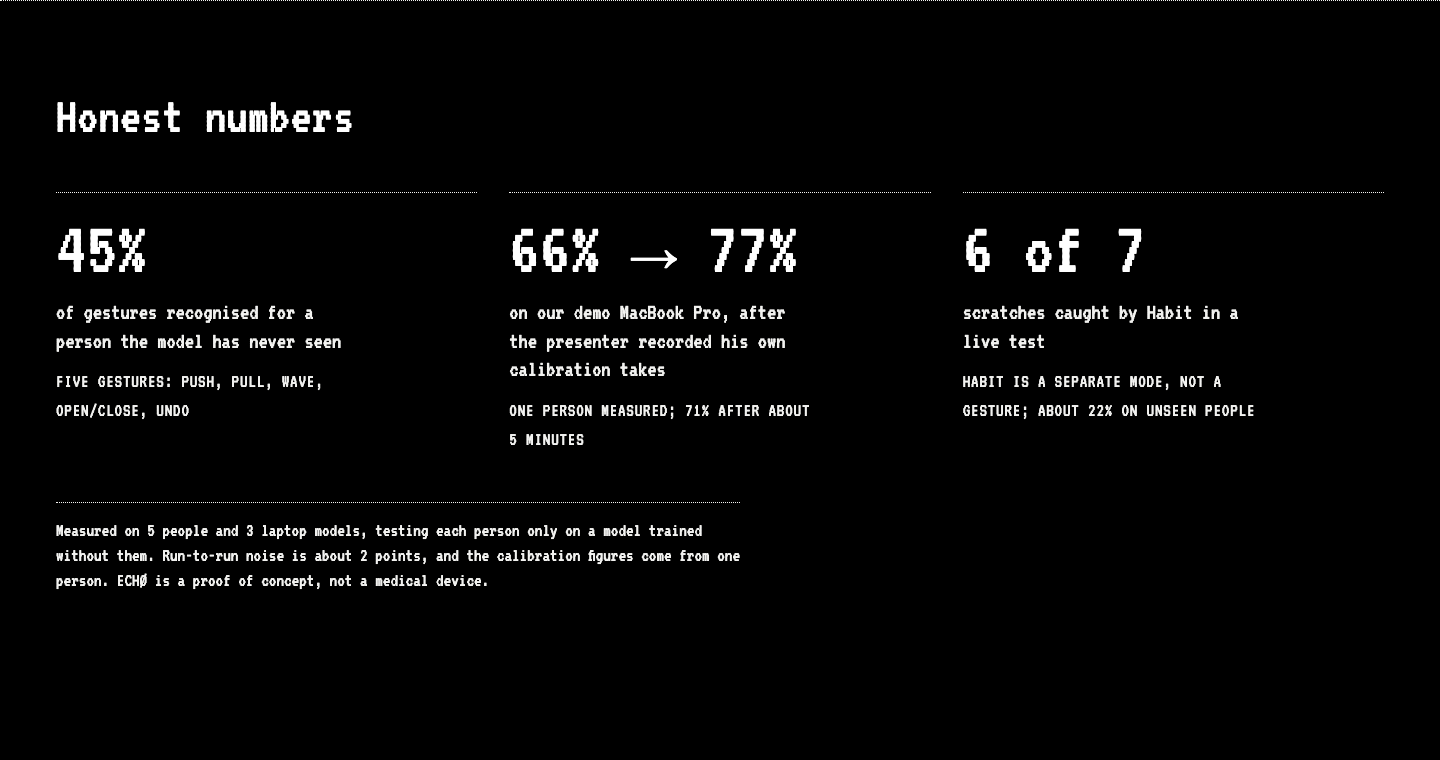
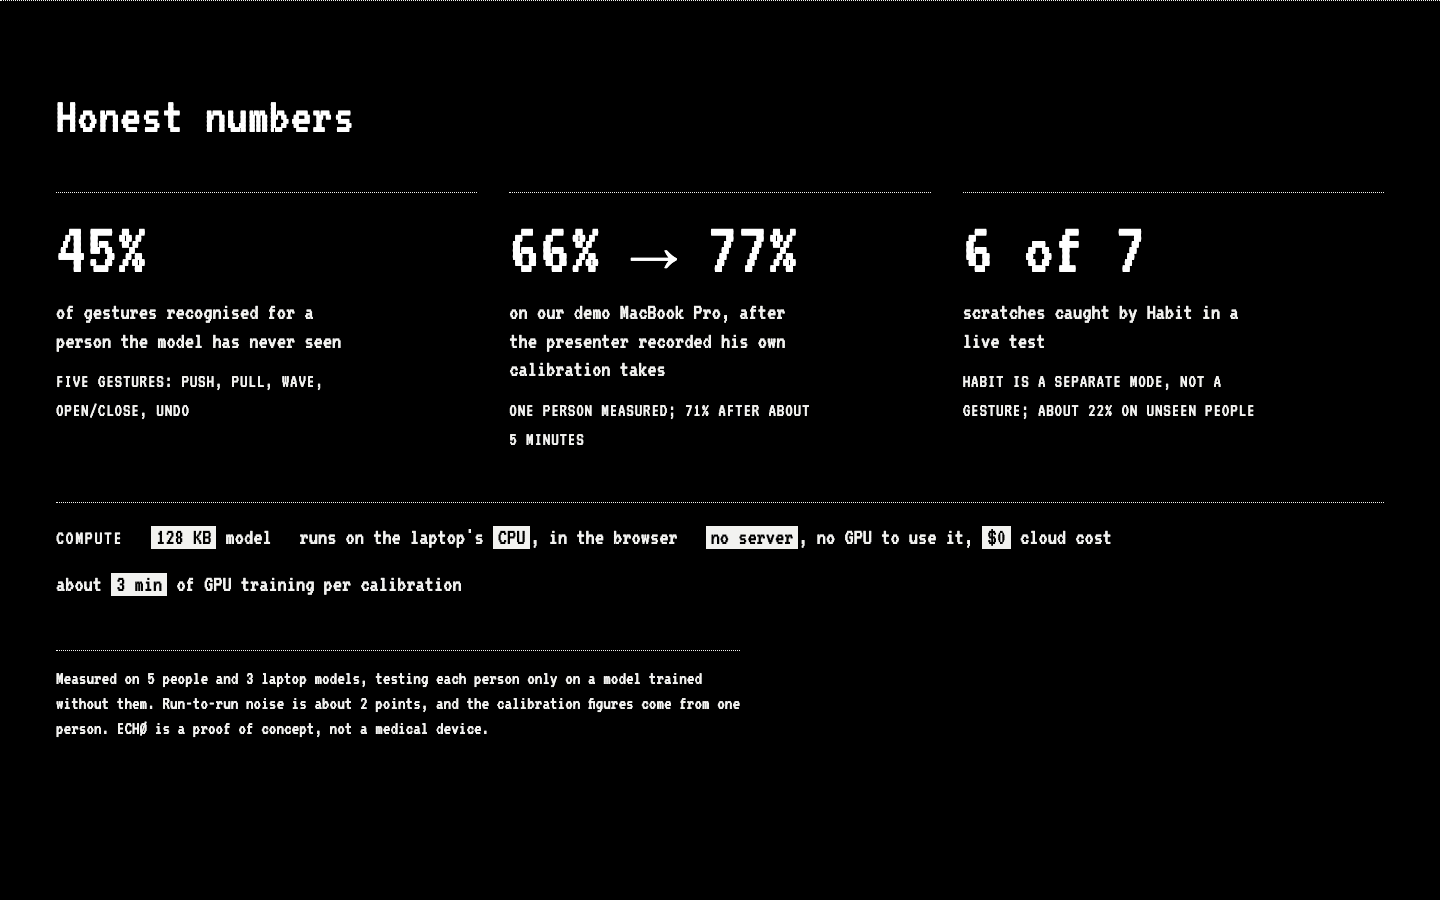
pitch: four challenges (Health, Undo Button, Touch Grass, Agent Solution), drop People First, compute line, 4-min script

diff --git a/app/src/pitch/Apps.tsx b/app/src/pitch/Apps.tsx
@@ -1,31 +1,35 @@
 import './pitch.css'
 
-// Home pitch section: the three apps on one sonar engine, one card each with its category.
-const APPS = [
+// Home pitch section: the four CodeJam challenges ECHØ answers, one card each, in the organisers' words.
+const CHALLENGES = [
   {
-    name: 'Care', category: 'Health and accessibility',
-    line: 'A hands-free help call for hospital beds and bathrooms, where cameras are not allowed. Wave to call a nurse, even in the dark.',
+    name: 'Health', apps: 'Care',
+    line: 'Hands-free help and pain calls for people who cannot reach a button, with no camera in bathrooms or hospital rooms.',
   },
   {
-    name: 'Lock', category: 'Digital wellbeing and parenting',
-    line: 'Blocked sites look like "This site can\'t be reached", so to a kid the Wi-Fi is just broken. Only your secret hand signs open them.',
+    name: 'Undo Button', apps: 'Undo gesture · Lock',
+    line: 'A double tap in the air deletes the last sign anywhere in ECHØ, and Lock lets a parent undo a kid\'s bad screen habit.',
   },
   {
-    name: 'Habit', category: 'Healthy habits',
-    line: 'Notices repeated scratching while you work and gives a soft nudge. Double tap to snooze it.',
+    name: 'Touch Grass', apps: 'Habit · Lock',
+    line: 'Habit nudges you off a screen habit. Lock makes blocked sites look unreachable, so the kid goes outside.',
+  },
+  {
+    name: 'Agent Solution', apps: 'How we built it',
+    line: 'A 128 KB model that runs on the laptop\'s own CPU, in the browser: no server, no cloud cost. The explainer shows how it works.',
   },
 ]
 
 export default function Apps() {
   return (
     <section className="pz" aria-labelledby="pz-apps">
-      <h2 id="pz-apps" className="pz__title">Three apps, one sonar</h2>
-      <div className="pz__cards">
-        {APPS.map((a, i) => (
-          <article key={a.name} className="pz__card">
-            <div className="pz__cardhead"><span className="pz__idx">0{i + 1}</span>{a.name}</div>
-            <div className="pz__cat">{a.category}</div>
-            <p className="pz__line">{a.line}</p>
+      <h2 id="pz-apps" className="pz__title">Four challenges, one sonar</h2>
+      <div className="pz__cards pz__cards--4">
+        {CHALLENGES.map((c, i) => (
+          <article key={c.name} className="pz__card">
+            <div className="pz__cardhead"><span className="pz__idx">0{i + 1}</span>{c.name}</div>
+            <div className="pz__cat">{c.apps}</div>
+            <p className="pz__line">{c.line}</p>
           </article>
         ))}
       </div>

diff --git a/app/src/pitch/Results.tsx b/app/src/pitch/Results.tsx
@@ -1,7 +1,8 @@
 import './pitch.css'
 
 // Home pitch section: the honest numbers. Every figure comes from ml/experiments/summary.json and RESULTS.md
-// (stranger.gestures.macro_recall, ian_on_macbook_pro_calibration, and EJ's Habit live test).
+// (stranger.gestures.macro_recall, ian_on_macbook_pro_calibration, and EJ's Habit live test). Compute: app/public/models/
+// gesture.onnx is 131,100 bytes; a calibration retrain is about 3 minutes on one GPU (Yahya's calib runs).
 const STATS = [
   { big: '45%', label: 'of gestures recognised for a person the model has never seen', note: 'five gestures: push, pull, wave, open/close, undo' },
   { big: '66% → 77%', label: 'on our demo MacBook Pro, after the presenter recorded his own calibration takes', note: 'one person measured; 71% after about 5 minutes' },
@@ -20,6 +21,13 @@ export default function Results() {
             <div className="pz__note">{s.note}</div>
           </div>
         ))}
+      </div>
+      <div className="pz__compute">
+        <span className="pz__computehead">Compute</span>
+        <span><b>128 KB</b> model</span>
+        <span>runs on the laptop's <b>CPU</b>, in the browser</span>
+        <span><b>no server</b>, no GPU to use it, <b>$0</b> cloud cost</span>
+        <span>about <b>3 min</b> of GPU training per calibration</span>
       </div>
       <p className="pz__small">
         Measured on 5 people and 3 laptop models, testing each person only on a model trained without them. Run-to-run noise is

diff --git a/app/src/pitch/pitch.css b/app/src/pitch/pitch.css
@@ -26,3 +26,10 @@
   .pz__cards, .pz__stats { grid-template-columns: 1fr; }
   .pz__closing { font-size: 48px; }
 }
+
+.pz__cards--4 { grid-template-columns: repeat(4, minmax(0, 1fr)); }
+.pz__compute { display: flex; flex-wrap: wrap; gap: 12px 28px; align-items: baseline; margin-top: 48px; border-top: 1px dotted var(--ink); padding-top: 18px; font-size: 23px; }
+.pz__compute b { font-weight: 400; color: var(--ink-strong); background: var(--ink); color: var(--bg); padding: 0 5px; }
+.pz__computehead { font-size: 20px; letter-spacing: .08em; text-transform: uppercase; }
+@media (max-width: 1200px) { .pz__cards--4 { grid-template-columns: repeat(2, minmax(0, 1fr)); } }
+@media (max-width: 900px) { .pz__cards--4 { grid-template-columns: 1fr; } }

diff --git a/pitch/demo-script.md b/pitch/demo-script.md
@@ -1,18 +1,42 @@
-# Demo script (3:00, read aloud)
+# Pitch script (about 4 minutes, read aloud; the rest of the 7 minutes is Q&A)
 
-Setup: laptop on the table, volume up, webcam taped over, phone showing the caregiver dashboard.
+Setup: the demo MacBook Pro on the table, volume at max, webcam taped over, ECHØ open on Home. Lock signs already set and
+locked. Habit on with Demo data. The caregiver view open on a second screen or phone.
 
-## 1. Waterfall (0:00 - 0:30)
-"Your laptop can see your hands without a camera. The speaker plays a tone you can't hear, and the mic listens to the echo off your hand. Judge, wave your hand over the keyboard. See the screen react? The webcam is taped over. No camera, no images, and it works in the dark."
+## 1. Hook (0:00 - 0:30)
+"Cameras hit three walls. They aren't allowed in hospital rooms or bathrooms. They fail in the dark. And they record you.
+ECHØ uses sound instead. Your laptop can hear your hands."
 
-## 2. Lock (0:30 - 1:30)
-"Lock is a gesture password for a kid's browser. YouTube is blocked. Judge, try to unlock it with a gesture. Not it. Again. A third time: alarm, and the parent's dashboard gets an alert. Now I unlock it with our secret four-gesture rhythm." (perform it) "Unlocked. This is how we undo the mistake of handing a kid the iPad."
+## 2. How it works (0:30 - 1:10)
+(Scroll to the 3D explainer, then wave over the keyboard so the flower reacts.)
+"The speaker plays a 20 kilohertz tone that's too high to hear. Your hand bounces it back slightly higher when it moves
+toward the screen and lower when it moves away. That's the Doppler effect. A small model turns that echo into five
+gestures. There's no camera and no image, and the audio never leaves this laptop."
 
-## 3. Care (1:30 - 2:30)
-"Care is a camera-free help button. The patient waves for help." (wave) "On the caregiver's phone the alert lights up within a second. If nothing moves for too long, we raise an inactivity alert, and the timeline shows how restless or still the person was. No camera in the room."
+## 3. Health: Care (1:10 - 1:50)
+(Open Care, wave for about 2 seconds.)
+"Health. For someone in a hospital bed or a bathroom who can't reach a call button, a wave is a help call. Open and
+close your hand for pain." (Point at the caregiver view.) "The caregiver sees it instantly. No camera in the room, and it
+works with the lights off."
 
-## 4. Habit (2:30 - 3:00)
-"Habit catches repetitive motion like scratching and fidgeting." (fake scratching) "The nudge chime fires and it's logged. Double tap toward the screen, like double-clicking the air, to undo it and snooze the nudge. Undo works the same way in every app."
+## 4. Touch Grass and Undo Button: Lock (1:50 - 2:50)
+(Open the blocked site.)
+"Touch Grass and Undo Button. A parent blocks a site. To the kid it looks like the Wi-Fi is just broken, so they go
+outside. Only the parent's secret hand signs open it." (Do the 4 signs; if one is wrong, double tap.) "If I make a
+mistake, a double tap in the air undoes the last sign. That undo works everywhere in ECHØ. And there it opens."
 
-## 5. Honesty slide (see SLIDES.md slide 6)
-"We measured it: range [range: __ cm], accuracy [accuracy: __ %]. Where a camera is better, we say so."
+## 5. Touch Grass: Habit (2:50 - 3:15)
+(Open Habit, scratch your forearm for about 5 seconds.)
+"Habit notices when you scratch while you work and gives you a soft nudge. The chart shows your day."
+
+## 6. Agent Solution and honest numbers (3:15 - 4:00)
+"Agent Solution. The model is 128 kilobytes and runs on this laptop's own CPU, in the browser. No server, no cloud
+cost, and a new calibration trains in about three minutes. Four of us built it with five AI agents on one shared board.
+Honest numbers: for a person the model has never seen, it gets about 45% of gestures. On this laptop, with a few minutes
+of my own recordings, about 77%. ECHØ: your laptop can hear your hands."
+
+## Q&A prompts to have ready
+- "Does it record me?" No. Audio is analysed on the laptop and thrown away; only events like "help" leave it.
+- "Will it work on my laptop?" Any laptop with a speaker and mic; weaker speakers need a short calibration.
+- "Why not a camera?" Not allowed in many patient rooms and bathrooms, and it fails in the dark.
+- "What did the AI do?" The agents wrote and tested most of the code; we chose what to build, recorded the data and tested it live.

diff --git a/pitch/SLIDES.md b/pitch/SLIDES.md
@@ -1,7 +1,8 @@
 # ECHØ: 6-slide outline
 
 Look: pure black, VT323, off-white ink, dotted rules, the dithered flower on slide 1 only.
-Categories said out loud: Health (Care), Touch Grass + Undo (Lock), Undo (Habit), People First (privacy), Agent (how we built it).
+Four challenges, said out loud in the organisers' words: Health, Undo Button, Touch Grass, Agent Solution.
+Pitch is 3-5 minutes, then Q&A (7 minutes total, judges come to our room). Spoken script: pitch/demo-script.md.
 
 ---
 
@@ -19,24 +20,25 @@ Categories said out loud: Health (Care), Touch Grass + Undo (Lock), Undo (Habit)
 ## 3. How the sonar works
 - The speaker plays a 20 kHz tone that's too high to hear.
 - A moving hand bounces it back slightly shifted (the Doppler effect): toward = higher, away = lower.
-- The mic hears that shift, and a small model turns it into five gestures (push, pull, wave, open/close, undo), plus a Habit mode that notices scratching.
-- No camera, no image, works in the dark, runs in the browser on the laptop you already have.
-- Visual: the live dithered waterfall with a hand streak.
+- A small model turns that into five gestures (push, pull, wave, open/close, undo), plus a Habit mode that notices scratching.
+- No camera, no image, works in the dark. Privacy is built in: audio never leaves the laptop, only events like "help".
+- Visual: the 3D explainer and the live dithered waterfall.
 
-## 4. Three apps, one engine
-- **Care (Health):** a hands-free help call where cameras aren't allowed, like hospital beds and bathrooms, and for people who can't easily speak or reach a call button.
-- **Lock (Touch Grass + Undo):** undo handing your kid the iPad. Blocked sites look like "This site can't be reached", so to the kid the Wi-Fi is just broken and they go outside. Only your secret hand signs open it.
-- **Habit (Undo):** undo a habit. It catches scratching and fidgeting and gives a soft nudge.
-- **People First:** no camera, no audio kept, and only gesture events ever leave the laptop.
+## 4. Four challenges, one sonar
+- **Health:** Care. Hands-free help and pain calls for people who cannot reach a button, with no camera in bathrooms or hospital rooms.
+- **Undo Button:** a double tap in the air deletes the last sign anywhere in ECHØ, and Lock lets a parent undo a kid's bad screen habit.
+- **Touch Grass:** Habit nudges you off a screen habit, and Lock makes blocked sites look unreachable, so the kid goes outside.
+- **Agent Solution:** efficient compute. A 128 KB model runs on the laptop's CPU in the browser: no server, no GPU to use it, $0 cloud cost, about 3 minutes of training per calibration. The explainer shows how it works.
 
 ## 5. Live demo: the secret lock
 1. Open a blocked site. It looks like a normal "This site can't be reached" page.
 2. Do the 4 hand signs in the air. Only tiny dots show the progress, so nobody watching learns the code.
-3. On the fourth sign the page opens.
+3. Double tap to undo a wrong sign.
+4. On the fourth sign the page opens.
 - Backup: the recorded video if the room is too loud.
 
-## 6. How we built it, honest limits, the team
-- **Agent:** 4 humans and 5 AI agents (three Claude Code, one QA, one Codex) on one GitHub issue board. Git hooks enforced folder ownership, and every agent acknowledged each new spec version.
-- **Limits:** a brand-new person gets about 45% of gestures right (5 people, 3 laptop models). On a presenter's own laptop with a few minutes of their own recordings it reaches about 71-77%. Habit caught 6 of 7 scratches live, but only about 22% on people the model never saw. PUSH and PULL still get confused at times.
+## 6. How we built it, honest numbers, the team
+- 4 humans and 5 AI agents (three Claude Code, one QA, one Codex) on one GitHub issue board; git hooks enforced folder ownership, and every agent acknowledged each spec version.
+- **Numbers:** about 45% of gestures for a person the model never saw (5 people, 3 laptop models); on our demo MacBook Pro 66% rising to about 77% with the presenter's calibration; Habit caught 6 of 7 scratches live.
 - Team: Ian (lead, app, Chrome extension, integration), Yahya (sonar engine and ML model), EJ (UI, Habit, pitch, dataset), Michael (Supabase backend and caregiver dashboard).
 - Close: "Your laptop can hear your hands."

diff --git a/pitch/DEVPOST.md b/pitch/DEVPOST.md
@@ -1,7 +1,7 @@
 # ECHØ: Devpost draft
 **Your laptop can hear your hands.**
 
-Categories: Health, Touch Grass, Undo, People First, Agent.
+Categories: Health, Undo Button, Touch Grass, Agent Solution.
 
 ## Inspiration
 Cameras hit three walls. They aren't allowed in patient rooms or bathrooms, they fail in the dark, and they record you. Yet those are exactly the places where hands-free help matters most. Every laptop already has a speaker and a microphone, so we asked whether sound could do the job instead. It fixes all three: no image, works in the dark, allowed anywhere.
@@ -11,15 +11,16 @@ ECHØ turns any laptop into sonar. The speaker plays a 20 kHz tone that's too hi
 
 One engine powers three apps:
 - **Care (Health):** a hands-free help call for hospital beds and bathrooms, where cameras aren't allowed, and for people who can't easily speak or reach a call button.
-- **Lock (Touch Grass + Undo):** undo handing your kid the iPad. A blocked site looks like an ordinary "This site can't be reached" page, so to the kid the Wi-Fi is just broken and they go outside. Your 4 secret hand signs open it, and only tiny dots show the progress, so nobody watching learns the code.
-- **Habit (Undo):** undo a habit. It notices scratching and fidgeting and gives a soft chime and a small note; a double tap snoozes it.
+- **Lock (Touch Grass + Undo Button):** undo handing your kid the iPad. A blocked site looks like an ordinary "This site can't be reached" page, so to the kid the Wi-Fi is just broken and they go outside. Your 4 secret hand signs open it, and only tiny dots show the progress, so nobody watching learns the code.
+- **Habit (Touch Grass):** nudges you off a screen habit. It notices scratching and fidgeting and gives a soft chime and a small note; a double tap snoozes it.
+- **Undo Button:** a double tap in the air deletes the last sign anywhere in ECHØ.
 
-**People First:** there's no camera and no audio is kept. Sensing happens on the laptop, and only gesture events ever leave it.
+**Privacy:** there's no camera and no audio is kept. Sensing happens on the laptop, and only gesture events ever leave it.
 
 ## How we built it
 A TypeScript engine in the browser generates the tone, reads the mic and turns the echo into gesture events. A React app shows the live sonar (a 1-bit dithered waterfall) and runs the three apps. Five people recorded 147 gesture takes, and we trained a small CNN on a GPU that runs in the browser through ONNX.
 
-**Agent:** four humans worked with five AI agents (three Claude Code, one QA, one Codex). The lead owns a single versioned spec and the interface contracts, and every agent acknowledges each new version. Each agent owns only its folders, and git hooks block edits outside them. The agents coordinate on one pinned GitHub issue that works like a message board, with typed posts (NEED, DONE, BLOCKED) and exactly one reply per request. The QA agent hunts bugs at each milestone, and it caught a security bug in the lock. The humans chose the idea, recorded the data, tested and decided; the agents wrote the code.
+**Agent Solution:** efficient compute. The model is 128 KB and runs on the laptop's CPU in the browser, with no server and no cloud cost, and a calibration retrain takes about 3 minutes on one GPU. Four humans worked with five AI agents (three Claude Code, one QA, one Codex). The lead owns a single versioned spec and the interface contracts, and every agent acknowledges each new version. Each agent owns only its folders, and git hooks block edits outside them. The agents coordinate on one pinned GitHub issue that works like a message board, with typed posts (NEED, DONE, BLOCKED) and exactly one reply per request. The QA agent hunts bugs at each milestone, and it caught a security bug in the lock. The humans chose the idea, recorded the data, tested and decided; the agents wrote the code.
 
 ## Challenges we ran into
 Ultrasound behaves differently on every laptop, so we tested each of ours. Telling PUSH from PULL is still hard, and a brand-new person's gestures are harder to read than ours.

diff --git a/pitch/VIDEO.md b/pitch/VIDEO.md
@@ -12,7 +12,7 @@ hand shot.
 | 4 | 0:40-0:58 | Care page, then the Caregiver page | Open `#care`. Wave for about 2 s: the help alert fills the screen. Cut to `#caregiver` showing the call arriving. Optional: lights off for this shot. | "Health. ECHØ Care is a hands-free help call for hospital beds and bathrooms, where cameras aren't allowed. Wave, and the nurse is called. It works in the dark." |
 | 5 | 0:58-1:25 | Lock page, then a blocked site | On `#lock` the 4 signs are already set and locked. Open youtube.com: "This site can't be reached". Do the 4 signs in the air: tiny dots fill one by one, and on the fourth the page opens. | "Touch Grass and Undo. Undo handing your kid the iPad. To the kid, the Wi-Fi is just broken, so they go outside. Only your secret hand signs open it, and the dots don't give the code away." |
 | 6 | 1:25-1:40 | Habit page (Demo: on, so the chart is full), then a scratch | Open `#habit-app` with Demo on. Scratch your forearm for about 5 s near the laptop: soft chime, "hands · N today" in the corner. Double tap: "snoozed 10 min". | "Undo a habit. ECHØ Habit notices scratching and gives you a gentle nudge. Double tap to snooze it." |
-| 7 | 1:40-1:50 | Black slide: "no camera · no audio kept · only gesture events leave the laptop" | Hold. | "People First. There's no camera, no audio is kept, and only gesture events ever leave your laptop." |
+| 7 | 1:40-1:50 | Black slide: "no camera · no audio kept · only gesture events leave the laptop" | Hold. | "Privacy is built in. There's no camera, no audio is kept, and only gesture events ever leave your laptop." |
 | 8 | 1:50-2:00 | Home page "How we built it" section, scrolling | Scroll slowly through the agents block. | "Built in 40 hours by four humans and five AI agents on one board. Honest numbers: about 45% of gestures for a brand-new person, and over 70% on our presenter's laptop after a few minutes of his own recordings. ECHØ: your laptop can hear your hands." |
 
 ## Before filming
